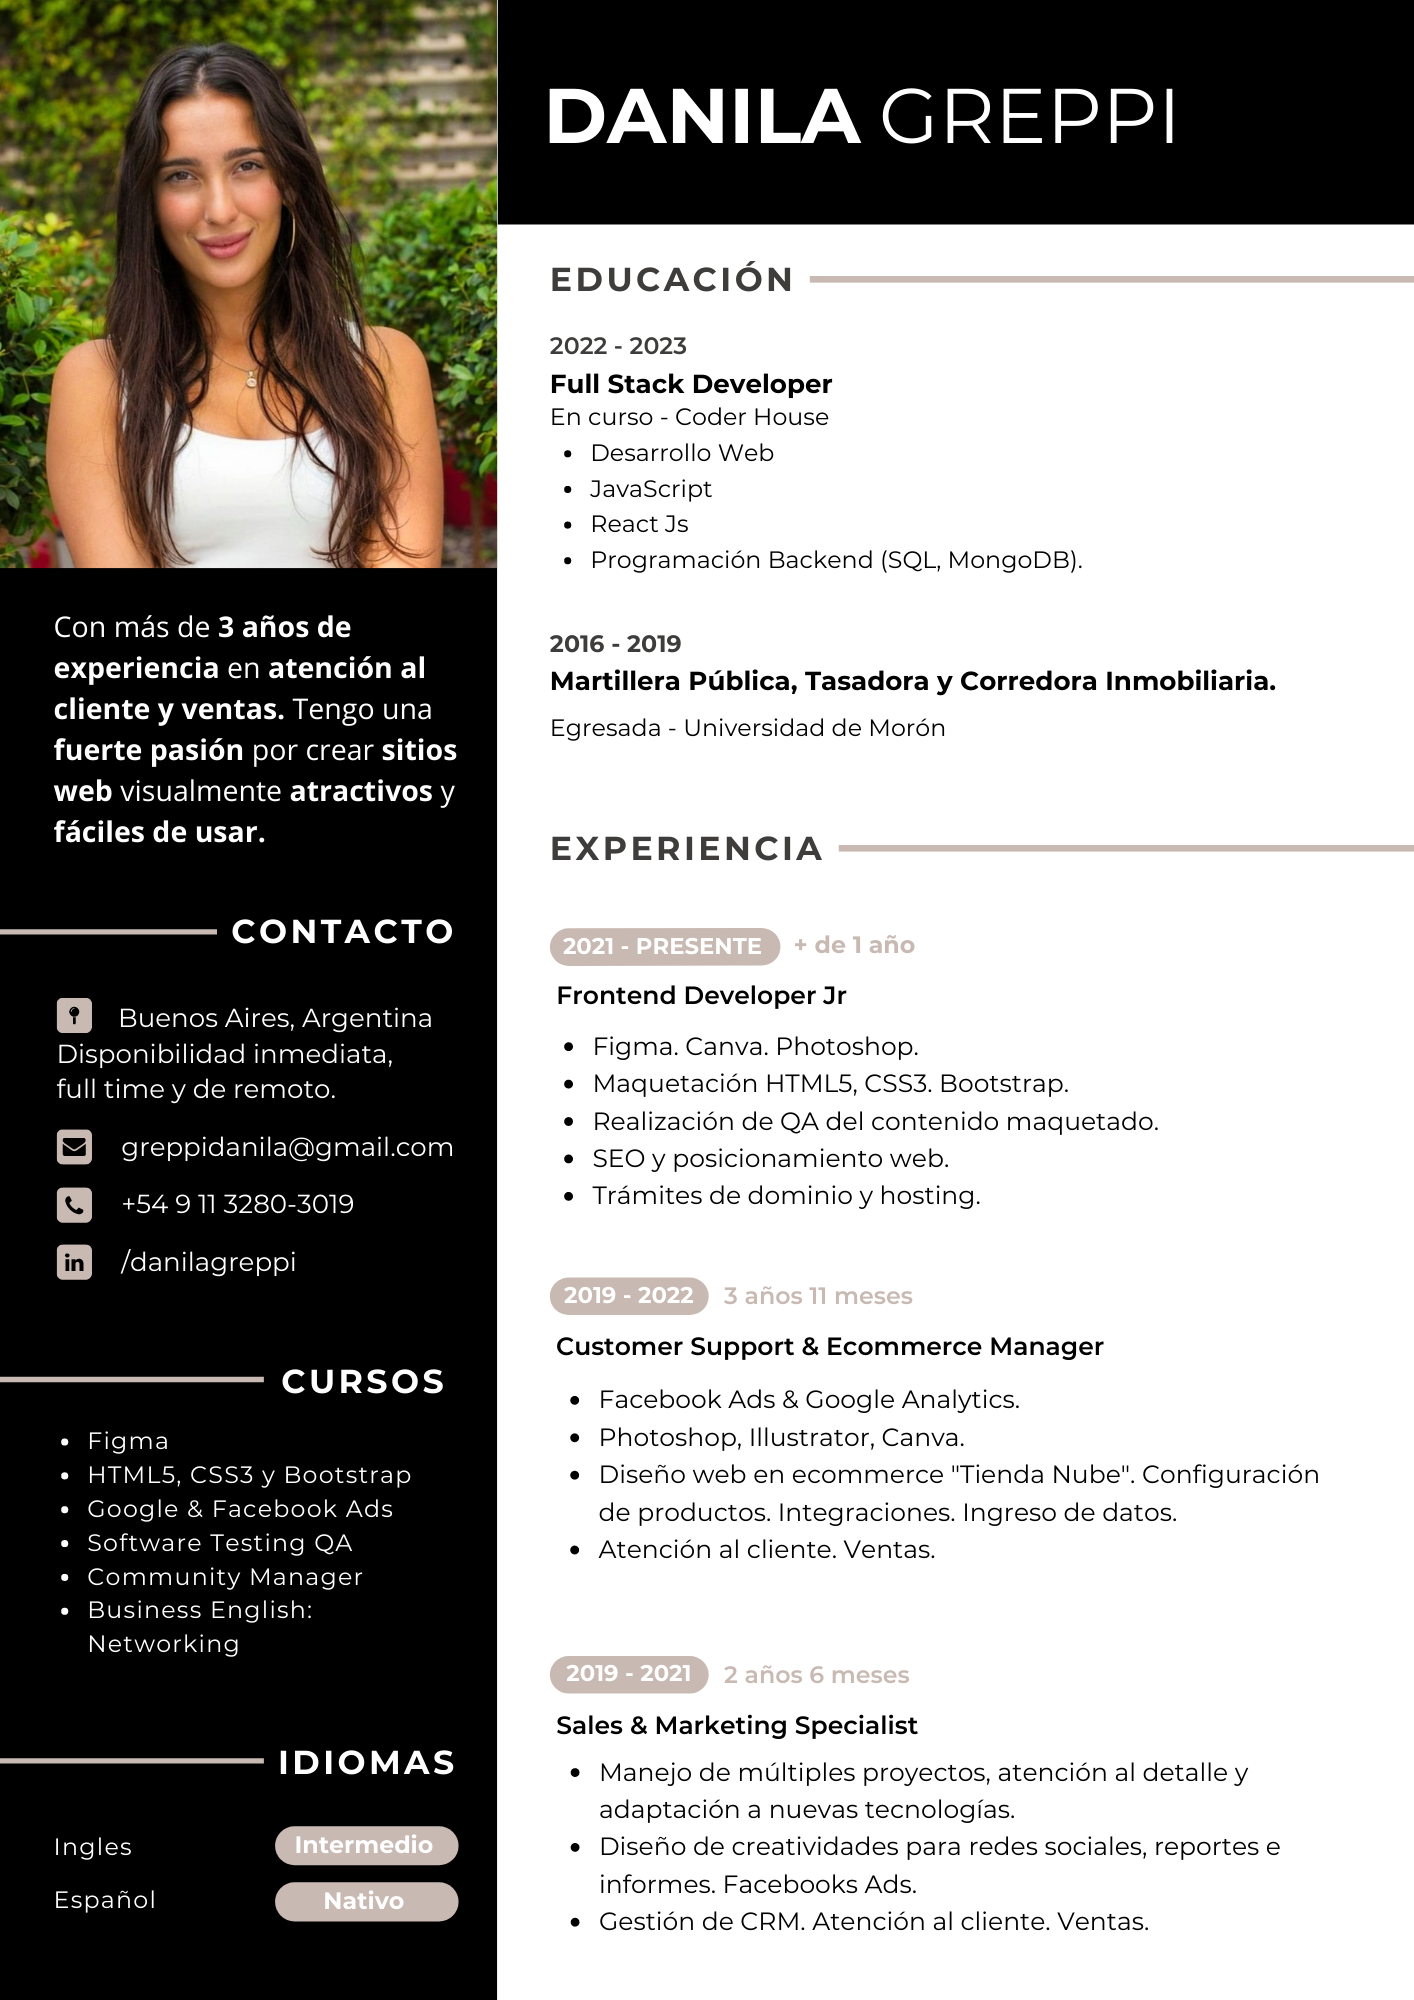
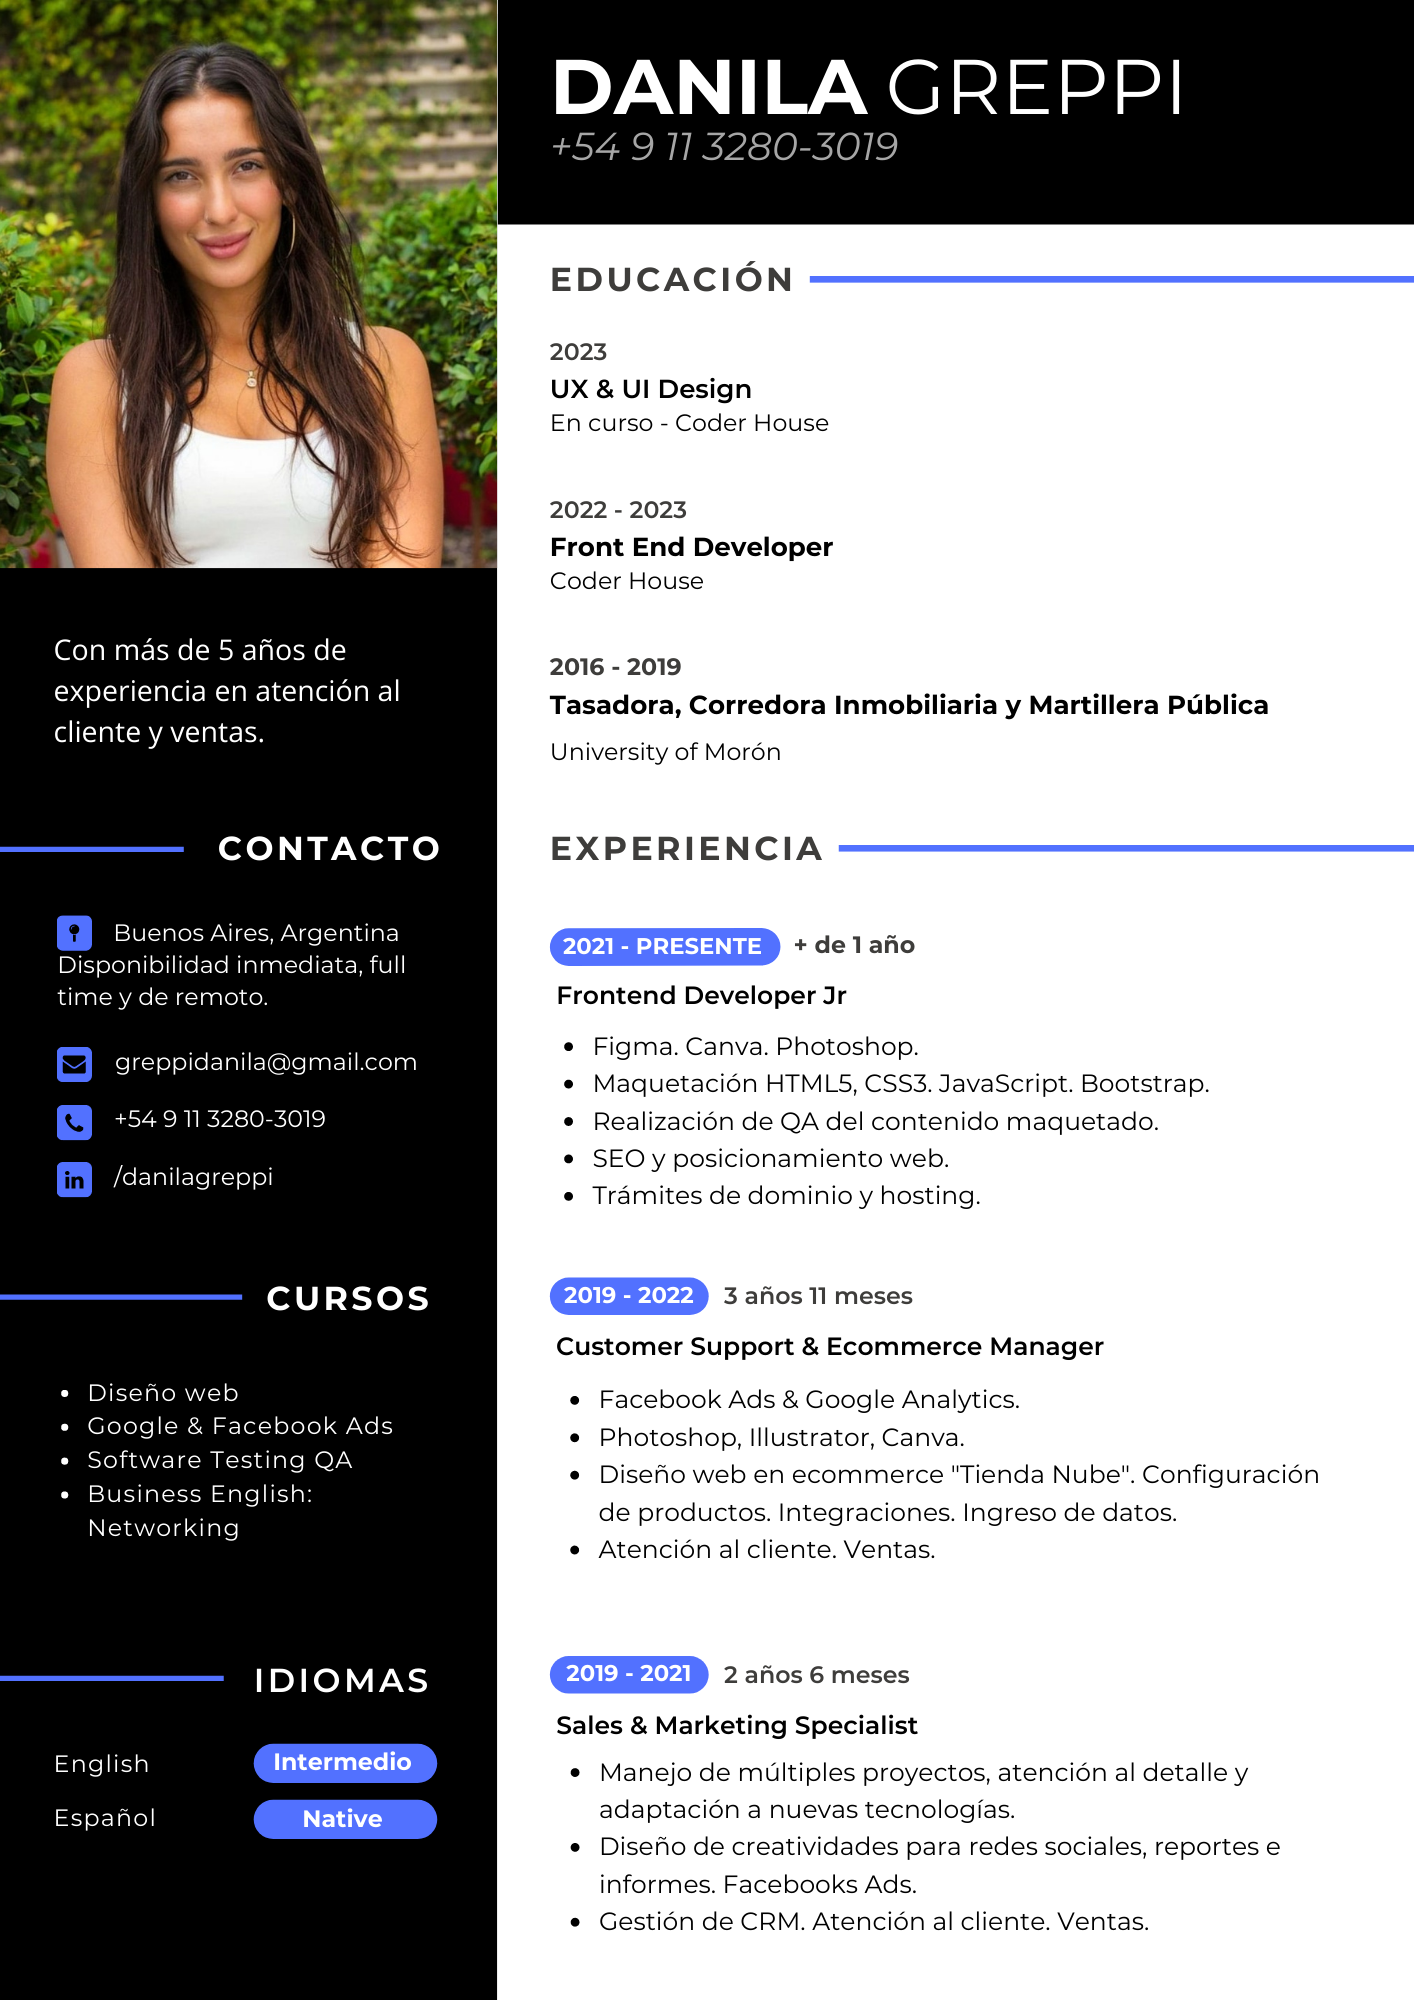
Modifcación Marzo

diff --git a/index.html b/index.html
@@ -246,15 +246,15 @@
                         <div id="tab-1" class="tab-pane fade show p-0 active">
                             <div class="row gy-5 gx-4">
                                 <div class="col-sm-6">
-                                    <h5>Diseñadora & <br> e-Commerce Manager</h5>
+                                    <h5>Customer Support & <br> e-Commerce Manager</h5>
                                     <hr class="text-primary my-2">
-                                    <p class="text-primary mb-1">2021 - 2022</p>
+                                    <p class="text-primary mb-1">AGUILA W&F</p>
                                     <h6 class="mb-0">Facebook Ads, e-Commerce TiendaNube, Photoshop, Illustrator, Canva.</h6>
                                 </div>
                                 <div class="col-sm-6">
-                                    <h5>Web Designer</h5>
+                                    <h5>Frontend Developer Jr</h5>
                                     <hr class="text-primary my-2">
-                                    <p class="text-primary mb-1">Pasantía de 6 meses</p>
+                                    <p class="text-primary mb-1">SIMBIUS SGP</p>
                                     <h6 class="mb-0">SEO, maquetado y armado, gestiones administrativas, HTML5, CSS3, Bootstrap.</h6>
                                 </div>
                                 <div class="col-sm-6">
@@ -264,7 +264,7 @@
                                     <h6 class="mb-0">HTML5,CSS3, Responsive Layout, JavaScript, Bootstrap.</h6>
                                 </div>
                                 <div class="col-sm-6">
-                                    <h5>Community Manager & Paid Media</h5>
+                                    <h5>Sales & Marketing Specialist</h5>
                                     <hr class="text-primary my-2">
                                     <p class="text-primary mb-1">2019 - 2022</p>
                                     <h6 class="mb-0">Manejo de múltiples proyectos, atención al detalle y adaptación a nuevas tecnologías. Photoshop, Canva. Redes Sociales. Facebook Ads.</h6>
